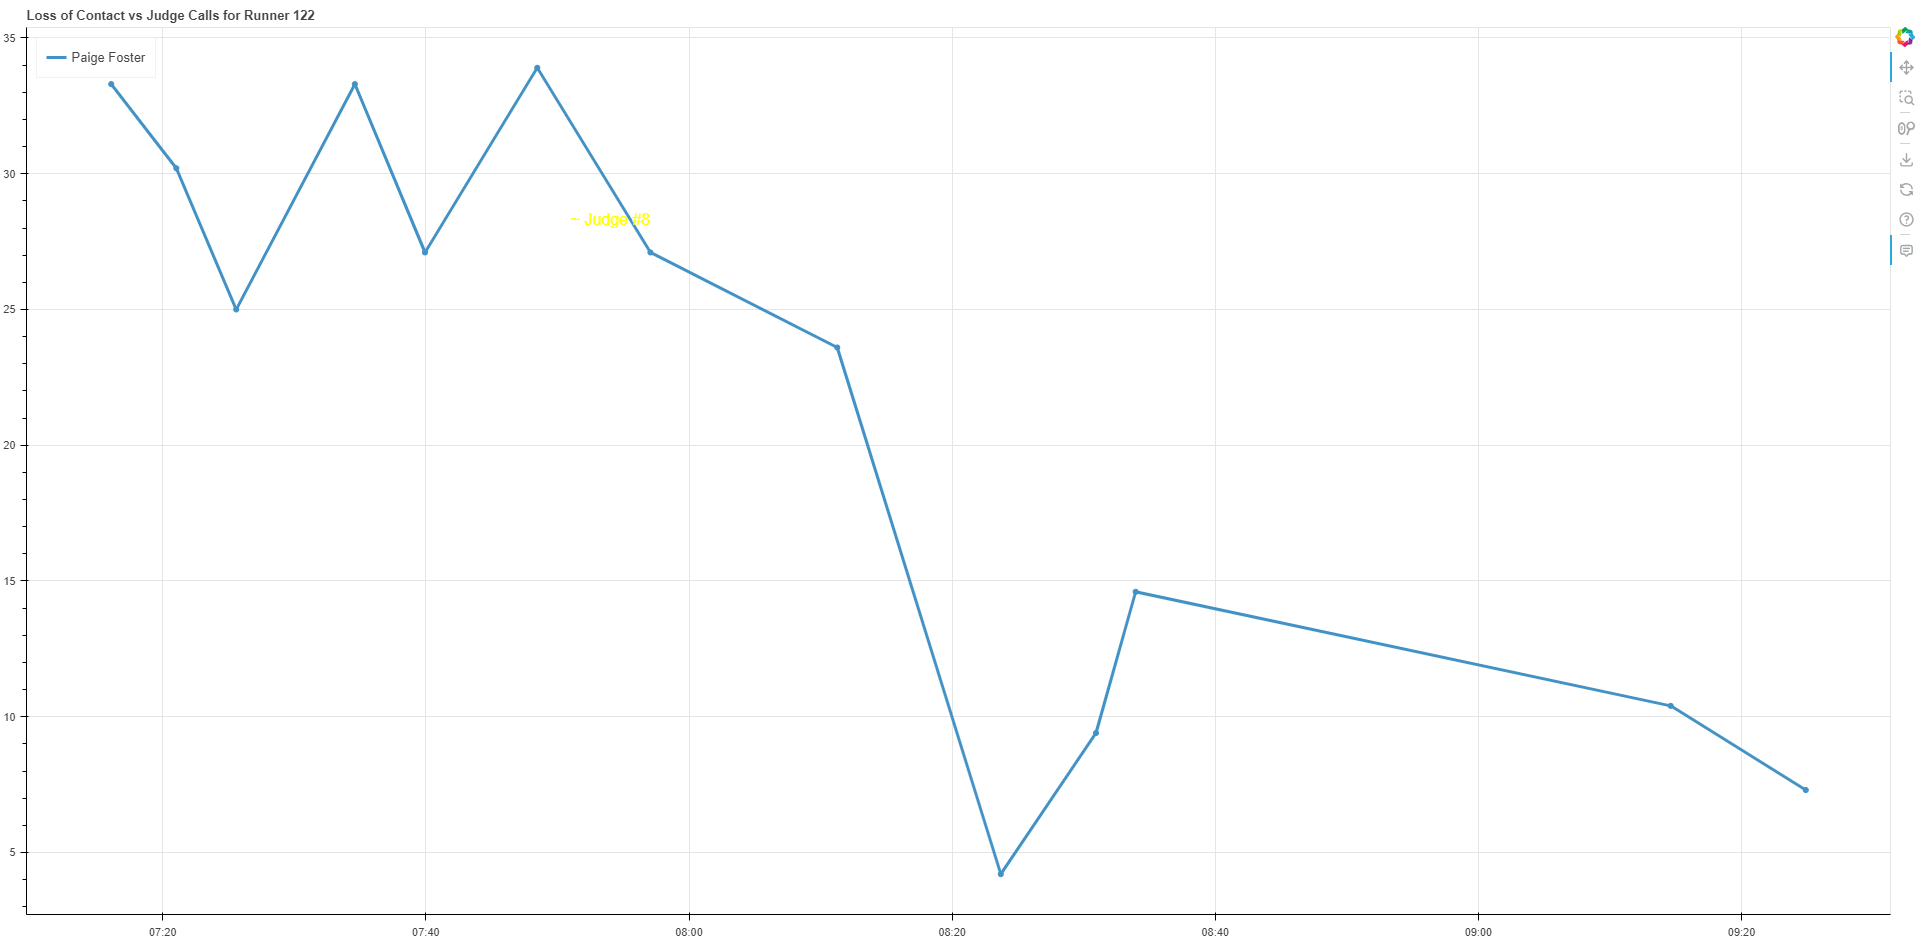
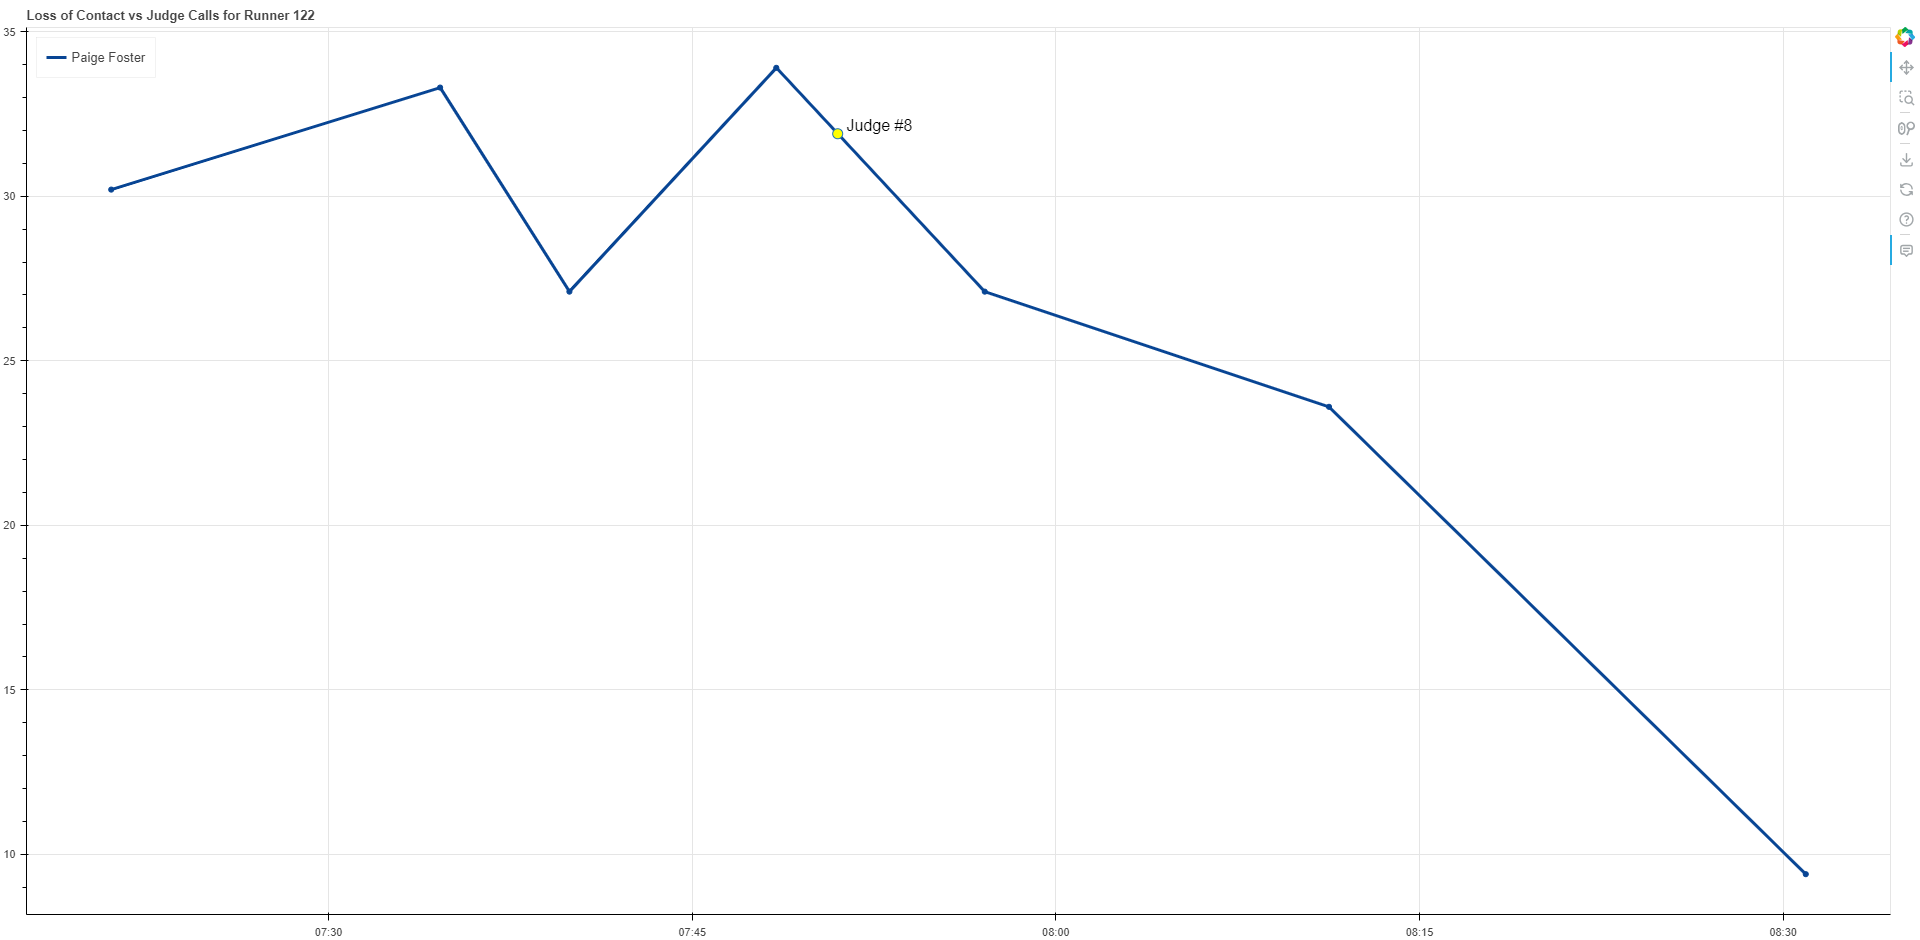
Judge call dot generation fixed.

diff --git a/graphs.py b/graphs.py
@@ -17,8 +17,8 @@ graphs_bp = Blueprint('graphs', __name__)
 # Database connection
 conn = sqlite3.connect('DrexelRaceWalking.db', check_same_thread=False)
 
-def read_loc_data():
-    data = pd.read_sql('SELECT "ID", "IDRace", "BibNumber", "LOCAverage", "KneeAngle", "TOD" FROM VideoObservation WHERE BibNumber>0 ORDER BY TOD', conn)
+def read_loc_data(race_id):
+    data = pd.read_sql(f'SELECT "ID", "IDRace", "BibNumber", "LOCAverage", "KneeAngle", "TOD" FROM VideoObservation WHERE BibNumber>0 and IDRace={race_id} ORDER BY TOD', conn)
     data.columns = ["ID", "IDRace", 'BibNumber', 'LOC', 'KneeAngle', 'Time']
     return data
 
@@ -40,7 +40,7 @@ def read_judge_calls_data():
 def graphs(race_id=1):
     # Read data
     os.makedirs(f'graphs/race_{race_id}', exist_ok=True)
-    loc_data = read_loc_data()
+    loc_data = read_loc_data(race_id)
     judge_calls_data = pd.read_sql(f'SELECT * from JudgeCall WHERE IDRace={race_id} ORDER BY Color LIMIT 329', conn)
     bib_data = read_bib_data()
     name_data = read_id_data()
@@ -58,6 +58,7 @@ def graphs(race_id=1):
         if loc_data_runner.empty:
             print(f"No data found for runner ID {runner_id}. Skipping.")
             continue
+        # print(loc_data_runner)
         p = figure(title=f'Loss of Contact vs Judge Calls for Runner {runner_id}', x_axis_type="datetime", width=1920, height=940)
         
         source = ColumnDataSource(data={
@@ -67,7 +68,7 @@ def graphs(race_id=1):
             'surname': loc_data_runner['LastName'],
             'bib_number': [str(runner_id)] * len(loc_data_runner)
         })
-        color = Blues8[random.randint(0, 7)]
+        color = Blues8[0]
         name = loc_data_runner['FirstName'].iloc[0]
         surname = loc_data_runner['LastName'].iloc[0]
 
@@ -93,11 +94,13 @@ def graphs(race_id=1):
         judge_calls_source = ColumnDataSource(data=dict(x=[], y=[], text=[], color=[]))
 
         for _, row in judge_calls_data[judge_calls_data['BibNumber'] == runner_id].iterrows():
-            nearest_before = loc_data_runner[loc_data_runner['Time'] <= row['TOD']]
-            after_calls = loc_data_runner[loc_data_runner['Time'] > row['TOD']]
+            nearest_before = loc_data_runner[loc_data_runner['Time'] <= row['TOD']].iloc[-1:]
+            after_calls = loc_data_runner[loc_data_runner['Time'] > row['TOD']].iloc[:1]
 
             if not nearest_before.empty and not after_calls.empty:
+
                 nearest_before_time = nearest_before['Time'].iloc[0]
+                t1 = 0
                 t2 = (after_calls['Time'].iloc[0] - nearest_before_time).total_seconds()
                 t3 = (pd.to_datetime(row['TOD']) - nearest_before_time).total_seconds()
 
@@ -105,7 +108,7 @@ def graphs(race_id=1):
                 loc2 = float(after_calls['LOC'].iloc[0])
 
                 m = (loc2 - loc1) / t2
-                loc3 = m * t3 + loc1
+                loc3 = (m * t3) + loc1
 
                 x_judge = pd.to_datetime(row['TOD'])
                 y_judge = loc3
@@ -113,16 +116,18 @@ def graphs(race_id=1):
 
                 judge_calls_source.data['x'].append(x_judge)
                 judge_calls_source.data['y'].append(y_judge)
-                judge_calls_source.data['text'].append(row['Infraction'] + ' Judge #' + str(row['IDJudge']))
+                judge_calls_source.data['text'].append('  Judge #' + str(row['IDJudge']))
                 judge_calls_source.data['color'].append(color)
 
-        p.text(x='x', y='y', text='text', color='color', source=judge_calls_source)
 
+            p.text(x='x', y='y', text='text', color='black', source=judge_calls_source)
+            p.scatter(x='x',y='y', fill_color='color', source=judge_calls_source, size=10)
         p.legend.location = "top_left"
         p.legend.click_policy = "mute"
+        p.background_fill_color = "white"
 
         # Export the plot as a PNG
         export_png(p, filename=f"graphs/race_{race_id}/runner_{runner_id}_plot.png")
 
 if __name__ == '__main__':
-    graphs(2)
+    graphs(1)
